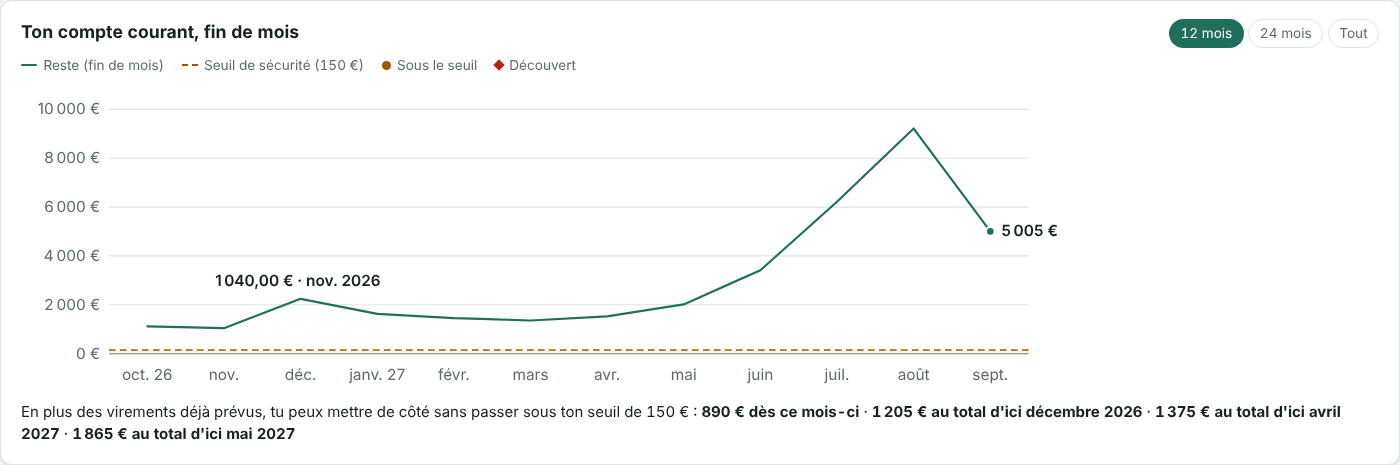
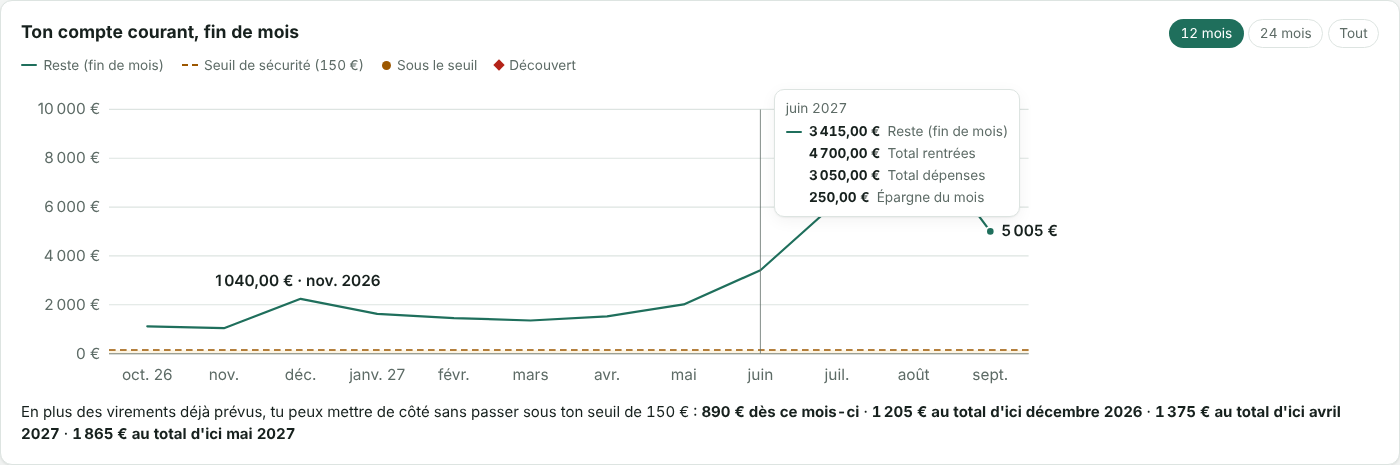
README: overview, hero image and screenshots of the new features
At-a-glance table, a hero image (computer and phone in dark mode),
screenshots of the charts, the administration page and two-factor
login, in French and English, all from the fictional demo household.
On phones, the four figures stay two by two and the balances form takes
two rows.

Changed region(s): [[0.5529, 0.271, 0.7371, 0.4817], [0.5529, 0.2108, 0.6143, 0.2409]]

diff --git a/src/budget_cockpit/static/app.css b/src/budget_cockpit/static/app.css
@@ -217,7 +217,16 @@ main.auth { min-height: 85vh; display: grid; place-items: center; padding: 1.25r
 }
 @media (max-width: 480px) {
   main.page { padding: .9rem; }
-  .cards { grid-template-columns: minmax(0, 1fr); }
+  /* phones: the four figures stay two by two, the balances form becomes two rows */
+  .cards { gap: .6rem; }
+  .card { padding: .65rem .8rem; }
+  .card-value { font-size: 1.2rem; }
+  .card-value.small { font-size: 1.05rem; }
+  .card-label, .card-sub { font-size: .78rem; }
+  .balance-form { display: grid; grid-template-columns: auto minmax(0, 1fr); gap: .45rem .6rem; }
+  .balance-form label { font-size: .9rem; }
+  .balance-form input { width: 100%; }
+  .balance-form button, .balance-form span { grid-column: 1 / -1; }
   .list .actions { flex-wrap: wrap; }
 }
 

diff --git a/README.fr.md b/README.fr.md
@@ -4,14 +4,14 @@
 
 ### Sache chaque mois ce qu'il te restera sur ton compte
 
-**Prévision mois par mois · Alerte de découvert · Revenus saisonniers · Provisions d'impôt · Home Assistant**
+**Prévision mois par mois · Alerte de découvert · Courbes · Plusieurs comptes · Double authentification · Home Assistant**
 
 🇬🇧 [Read in English](README.md)
 
 <br>
 
-<img src="docs/images/fr/budget.png"
-     alt="Prévision budgétaire Budget Cockpit"
+<img src="docs/images/fr/hero.png"
+     alt="Budget Cockpit sur ordinateur et sur téléphone"
      width="100%">
 
 <sub>Les captures montrent un foyer fictif de démonstration : tous les chiffres sont des exemples et ne correspondent pas à la situation de l'auteur.</sub>
@@ -21,6 +21,23 @@
 **Auto-hébergé · Local d'abord · Bilingue (FR / EN) · Open source pour un usage non commercial**
 
 </div>
+
+---
+
+## 🚀 En bref
+
+<table>
+<tr>
+<td width="33%" valign="top"><b>🔮 Une prévision, pas un historique</b><br>Ce qu'il restera sur ton compte à la fin de chaque mois, jusqu'à dix ans à l'avance.</td>
+<td width="33%" valign="top"><b>🚨 Alerte de découvert</b><br>Un seuil de sécurité, le mois le plus serré, et ce qu'il manque pour rester au-dessus.</td>
+<td width="33%" valign="top"><b>📈 Des courbes utiles</b><br>Ton compte mois par mois, ton épargne, les mois qui te coûtent, l'année d'une maison louée.</td>
+</tr>
+<tr>
+<td valign="top"><b>👥 Un budget chacun</b><br>Plusieurs comptes, chacun avec sa propre base. L'administrateur ne voit jamais le budget des autres.</td>
+<td valign="top"><b>🔐 Double authentification</b><br>Un code d'application d'authentification après le mot de passe, et des codes de secours à usage unique.</td>
+<td valign="top"><b>🏠 Home Assistant</b><br>Une API en lecture seule : le reste en fin de mois et les alertes sur ton tableau de bord.</td>
+</tr>
+</table>
 
 ---
 
@@ -108,10 +125,10 @@ Survole ou touche un mois pour le détail. Les courbes sont dessinées par le se
 ## 📊 Toute l'année d'un coup d'œil
 
 <img src="docs/images/fr/summary.png"
-     alt="Synthèse annuelle Budget Cockpit"
+     alt="Synthèse Budget Cockpit : ce que chaque mois ajoute ou retire au compte"
      width="100%">
 
-La synthèse donne, par année et par mois, les rentrées, les dépenses, l'épargne prévue et ta **capacité d'épargne réelle** — ainsi que le résultat de chaque groupe, par exemple une maison louée.
+La synthèse s'ouvre sur trois courbes — ce que chaque mois ajoute ou retire à ton compte, ton épargne prévue, et l'année de chaque groupe (une maison louée, par exemple) — puis le tableau année par année : rentrées, dépenses, épargne prévue et ta **capacité d'épargne réelle**, par an et par mois.
 
 ---
 
@@ -122,6 +139,10 @@ Budget Cockpit peut servir à tout le foyer, ou à quelques proches : chaque com
 - Le premier compte est administrateur. Il crée les autres avec un mot de passe provisoire, que chacun remplace par le sien à sa première connexion
 - L'administrateur gère les comptes (mot de passe, double authentification, rôles, suppression), mais ne voit jamais le budget des autres
 - Chacun a ses propres paramètres, sauvegardes et clés Home Assistant
+
+<img src="docs/images/fr/admin.png"
+     alt="Administration : comptes, rôles et double authentification"
+     width="100%">
 
 ---
 
@@ -155,7 +176,7 @@ volumes:
 docker compose up -d
 ```
 
-Ouvre `http://<ton-serveur>:8080`, crée ton compte, puis pars des données d'exemple ou saisis tes propres lignes.
+Ouvre `http://<ton-serveur>:8080`, crée le compte administrateur, puis pars des données d'exemple ou saisis tes propres lignes. Les autres comptes se créent dans **Admin**.
 
 Guide complet, avec un conteneur LXC Proxmox et un reverse proxy : [docs/user/INSTALLATION.fr.md](docs/user/INSTALLATION.fr.md).
 
@@ -172,6 +193,17 @@ Guide complet, avec un conteneur LXC Proxmox et un reverse proxy : [docs/user/IN
 - Content-Security-Policy stricte, aucun script, police ou traceur externe — Budget Cockpit n'appelle jamais Internet
 - Clés d'API affichées une seule fois et conservées uniquement sous forme d'empreinte
 - Utilisateur non root, conteneur en lecture seule
+
+<table>
+<tr>
+<td width="66%" valign="top"><img src="docs/images/fr/totp-setup.png" alt="Activer la double authentification avec un QR code"></td>
+<td width="34%" valign="top"><img src="docs/images/fr/login-code.png" alt="Le code demandé après le mot de passe, sur téléphone"></td>
+</tr>
+<tr>
+<td align="center"><b>La double authentification en un scan</b></td>
+<td align="center"><b>Le code demandé après le mot de passe</b></td>
+</tr>
+</table>
 
 Détails et signalement : [SECURITY.md](SECURITY.md).
 

diff --git a/README.md b/README.md
@@ -4,14 +4,14 @@
 
 ### Know what will be left on your account at the end of every month
 
-**Month-by-month forecast · Overdraft alerts · Seasonal income · Tax provisions · Home Assistant**
+**Month-by-month forecast · Overdraft alerts · Charts · Several accounts · Two-factor login · Home Assistant**
 
 🇫🇷 [Lire en français](README.fr.md)
 
 <br>
 
-<img src="docs/images/en/budget.png"
-     alt="Budget Cockpit budget forecast"
+<img src="docs/images/en/hero.png"
+     alt="Budget Cockpit on a computer and on a phone"
      width="100%">
 
 <sub>The screenshots show a fictional demo household: every figure is an example and none of them are the author's own finances.</sub>
@@ -21,6 +21,23 @@
 **Self-hosted · Local-first · Bilingual (FR / EN) · Open source for non-commercial use**
 
 </div>
+
+---
+
+## 🚀 At a glance
+
+<table>
+<tr>
+<td width="33%" valign="top"><b>🔮 A forecast, not a history</b><br>What will be left on your account at the end of every month, up to ten years ahead.</td>
+<td width="33%" valign="top"><b>🚨 Overdraft alerts</b><br>A safety threshold, the tightest month, and how much is missing to stay above it.</td>
+<td width="33%" valign="top"><b>📈 Charts that help</b><br>Your account month by month, your savings, the months that cost you, a rental property's year.</td>
+</tr>
+<tr>
+<td valign="top"><b>👥 One budget each</b><br>Several accounts, each with its own database. The administrator never sees the others' budgets.</td>
+<td valign="top"><b>🔐 Two-factor login</b><br>A code from an authenticator app after the password, and single-use recovery codes.</td>
+<td valign="top"><b>🏠 Home Assistant</b><br>A read-only API: the end-of-month balance and the alerts on your dashboard.</td>
+</tr>
+</table>
 
 ---
 
@@ -108,10 +125,10 @@ Hover or tap a month for the details. The charts are drawn by the server: nothin
 ## 📊 See the whole year
 
 <img src="docs/images/en/summary.png"
-     alt="Budget Cockpit yearly summary"
+     alt="Budget Cockpit summary: what each month adds to or takes from the account"
      width="100%">
 
-The yearly summary shows income, expenses, planned savings and your **real saving capacity** per year and per month — plus the net result of each group, for example a rental property.
+The summary opens with three charts — what each month adds to or takes from your account, your planned savings, and the year of each group (a rental property, say) — then the year-by-year table: income, expenses, planned savings and your **real saving capacity**, per year and per month.
 
 ---
 
@@ -122,6 +139,10 @@ Budget Cockpit can serve the whole household, or a few relatives: each account h
 - The first account is the administrator. It creates the others with a temporary password, which each person replaces with their own at first login
 - The administrator manages accounts (password reset, two-factor authentication, roles, deletion) but never sees anyone else's budget
 - Everyone has their own settings, backups and Home Assistant keys
+
+<img src="docs/images/en/admin.png"
+     alt="Administration: accounts, roles and two-factor status"
+     width="100%">
 
 ---
 
@@ -155,7 +176,7 @@ volumes:
 docker compose up -d
 ```
 
-Open `http://<your-server>:8080`, create your account, and either start from sample data or enter your own lines.
+Open `http://<your-server>:8080`, create the administrator account, and either start from sample data or enter your own lines. Other accounts are created in **Admin**.
 
 Full guide, including a Proxmox LXC and a reverse proxy: [docs/user/INSTALLATION.md](docs/user/INSTALLATION.md).
 
@@ -172,6 +193,17 @@ Full guide, including a Proxmox LXC and a reverse proxy: [docs/user/INSTALLATION
 - Strict Content-Security-Policy, no external scripts, fonts or trackers — Budget Cockpit never calls the Internet
 - API keys shown once and stored only as a hash
 - Runs as a non-root user in a read-only container
+
+<table>
+<tr>
+<td width="66%" valign="top"><img src="docs/images/en/totp-setup.png" alt="Turning on two-factor authentication with a QR code"></td>
+<td width="34%" valign="top"><img src="docs/images/en/login-code.png" alt="The code asked after the password, on a phone"></td>
+</tr>
+<tr>
+<td align="center"><b>Two-factor authentication in one scan</b></td>
+<td align="center"><b>The code asked after the password</b></td>
+</tr>
+</table>
 
 Details and reporting: [SECURITY.md](SECURITY.md).
 

diff --git a/CHANGELOG.md b/CHANGELOG.md
@@ -5,6 +5,8 @@
 - **Charts.** The budget page shows the current account at the end of each month against the safety threshold, with under-threshold and overdraft months marked and the lowest point labelled (12 months, 24 months or the whole forecast). The summary page adds what each month adds to or takes from the account, the planned savings, and the result of each group with its year-to-date total. Hover or keyboard focus shows the details of a month.
 - **Saving room**, under the account chart: how much more can be put aside, and by when, without going under the threshold — or, when the plan already goes under it, how much is missing and by which month.
 - Charts are SVG drawn on the server, styled for light and dark themes; colours checked for colour-blind separation. No new dependency, nothing loaded from the Internet.
+- On phones, the four figures at the top of the budget stay two by two and the balances form takes two rows.
+- README: new screenshots (computer and phone, charts, accounts, two-factor authentication) and an at-a-glance overview.
 
 ## 0.2.0 — 2026-10-11
 
